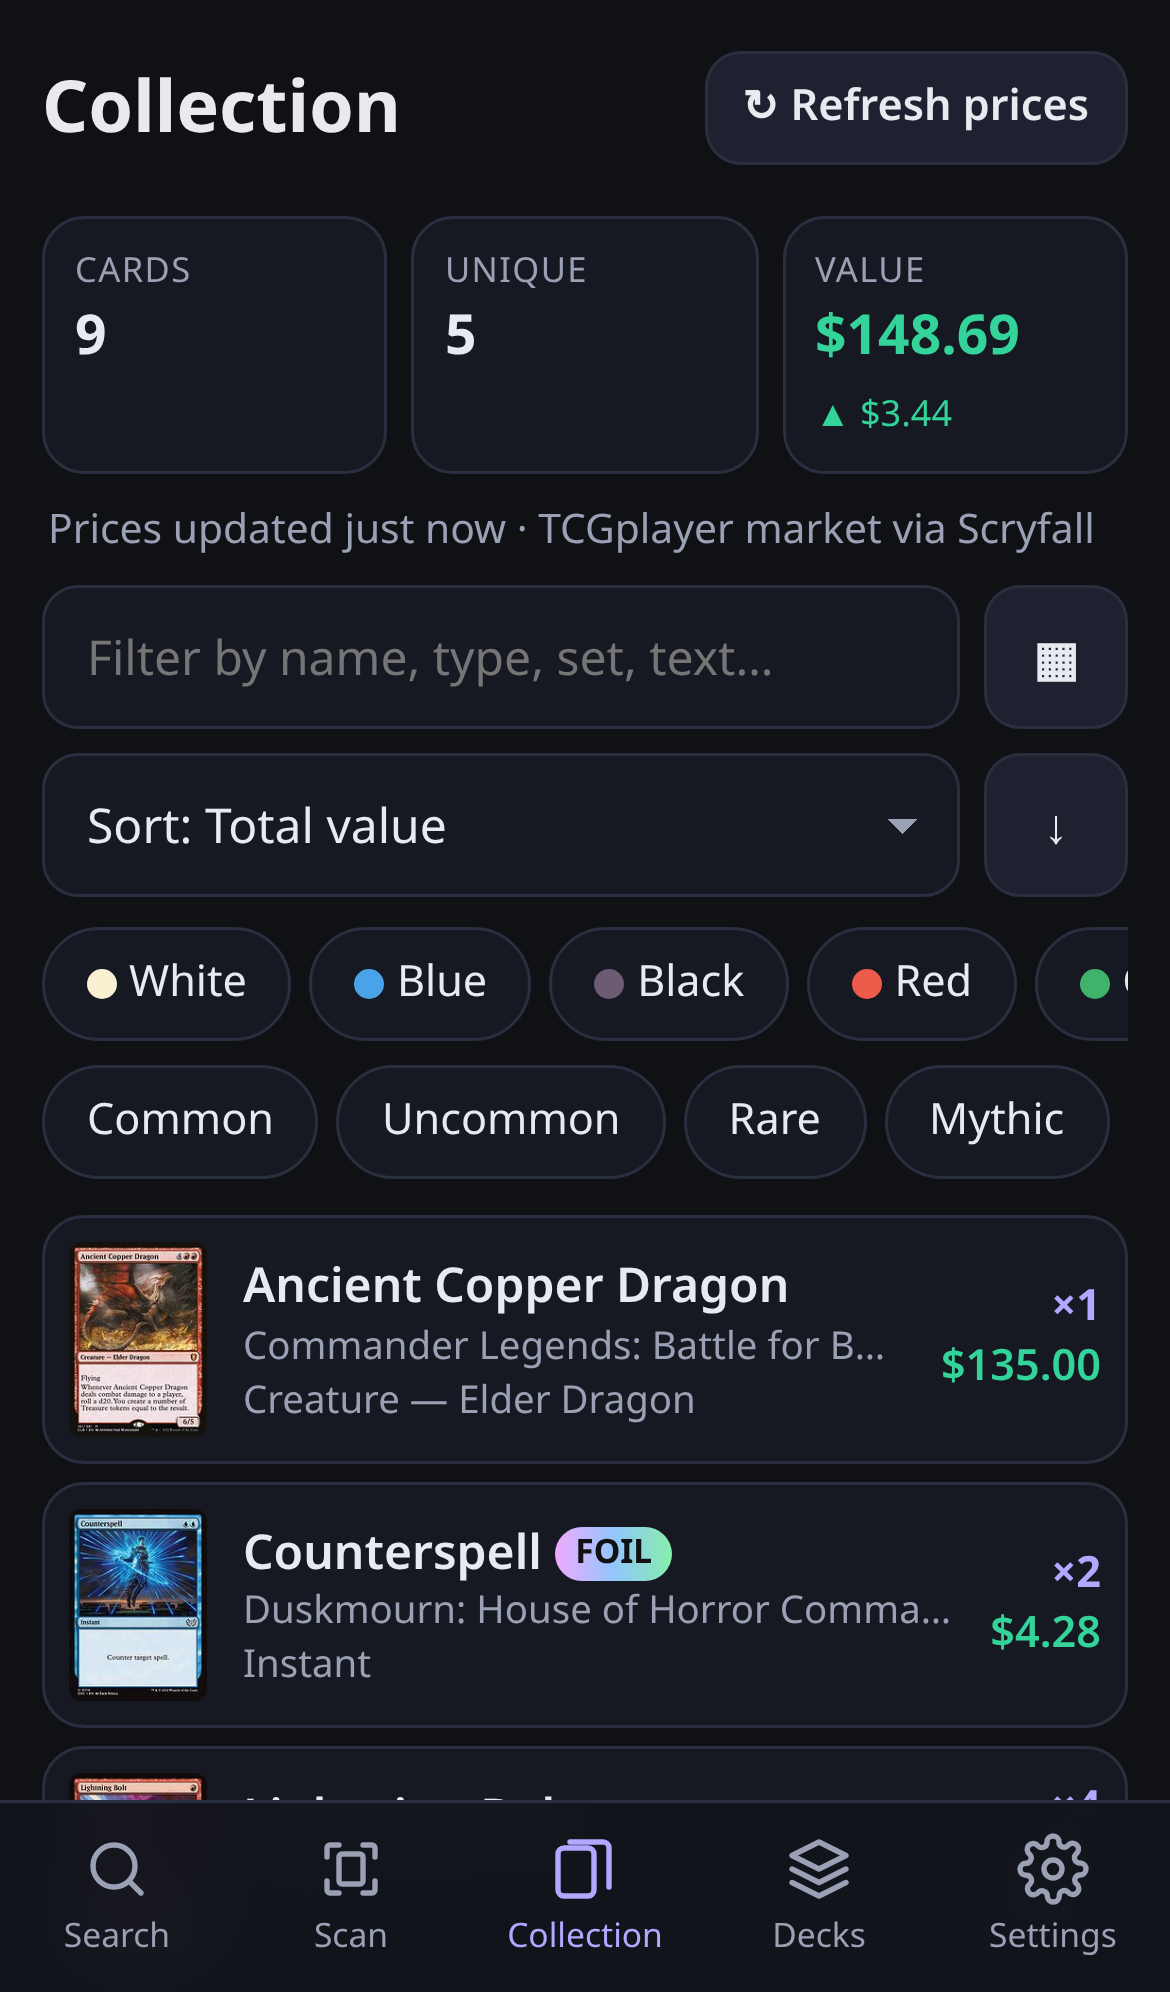
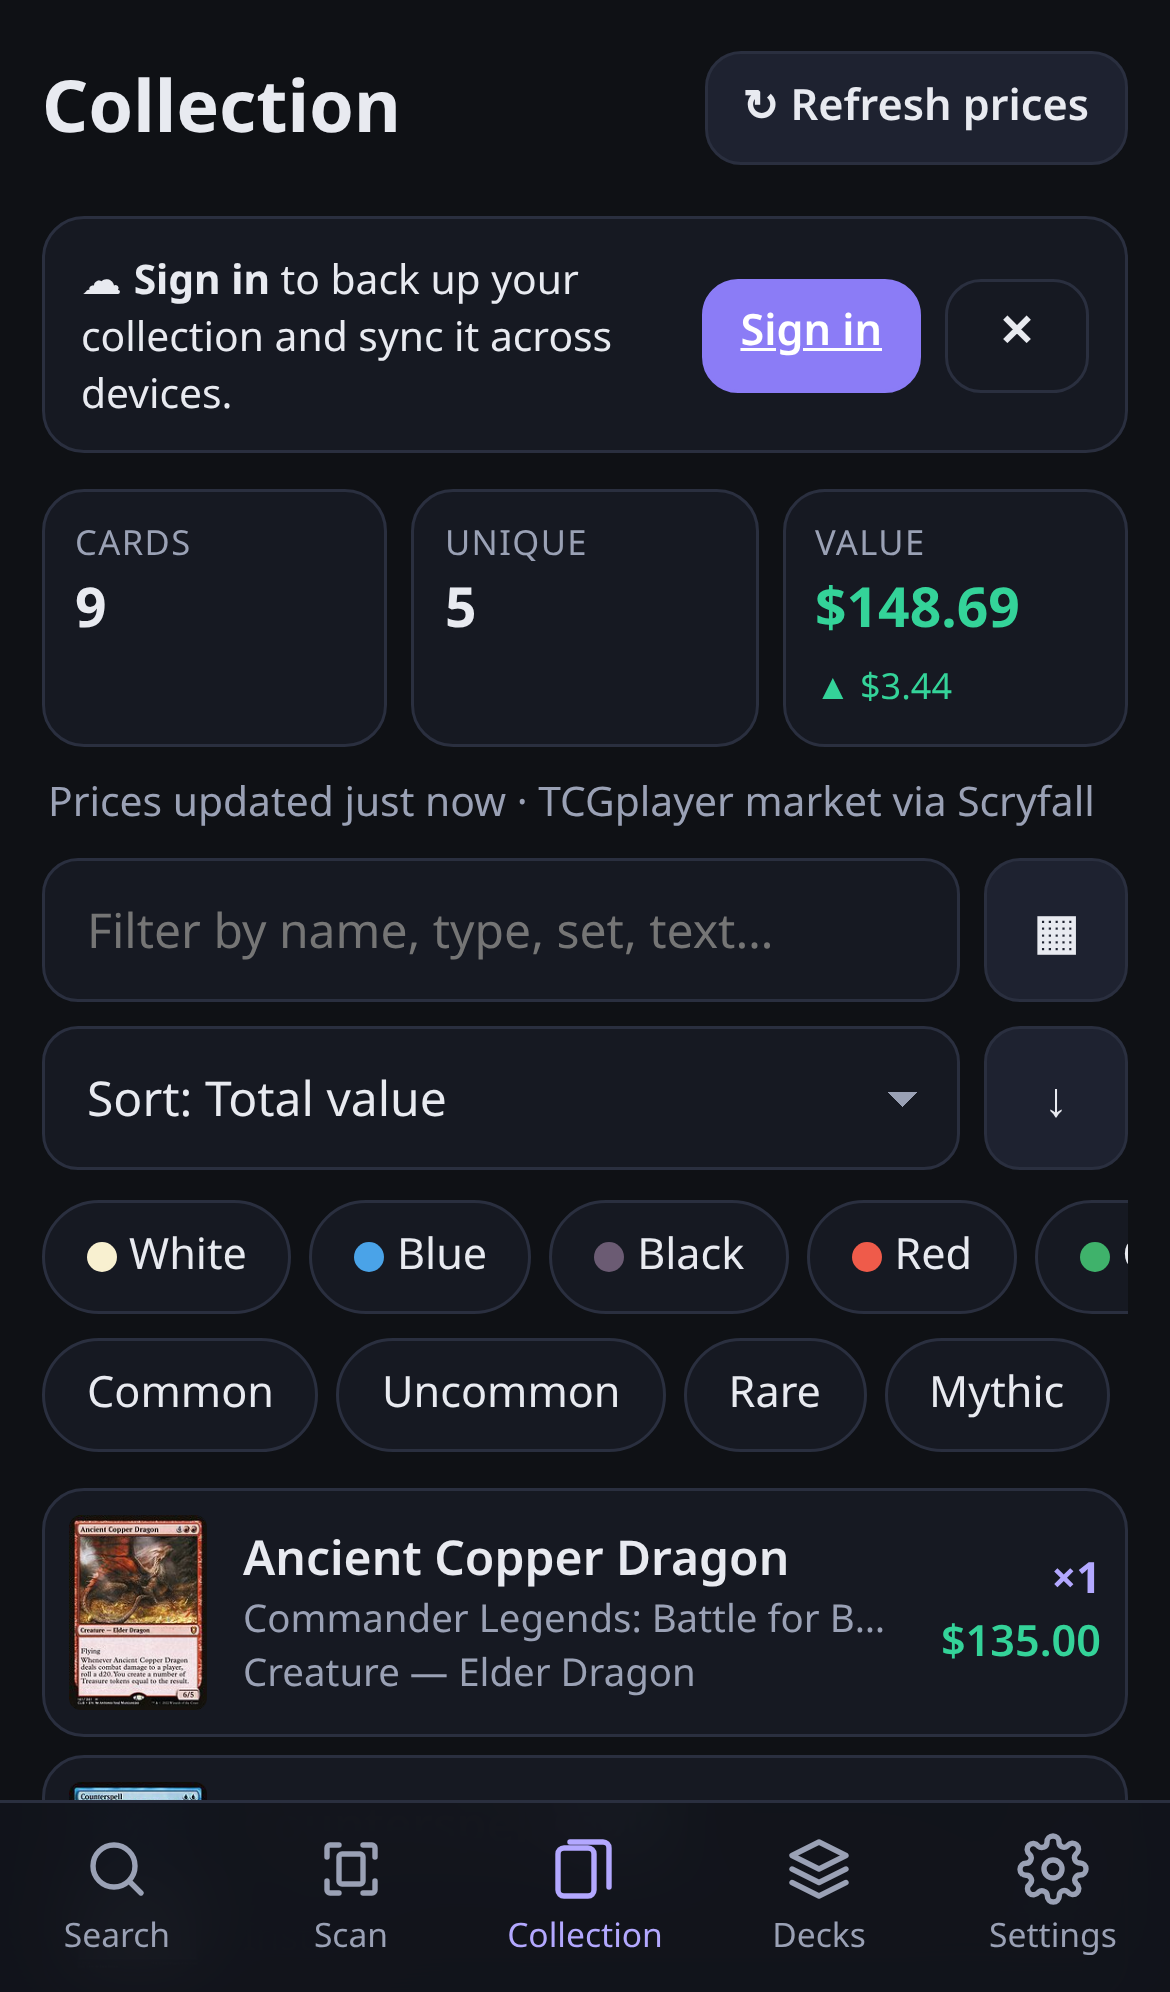
Configure Supabase project; graceful email-confirmation flow; transactional idempotent schema

Changed region(s): [[0.0308, 0.1245, 0.9846, 0.9026], [0.8, 0.7781, 0.9538, 0.8404]]

diff --git a/README.md b/README.md
@@ -45,21 +45,27 @@ Then on the phone: **iPhone Safari** → Share → *Add to Home Screen*. **Andro
 
 ## Cloud sync setup (Supabase)
 
-With `SUPABASE_URL` / `SUPABASE_ANON_KEY` empty in `js/config.js`, the app is purely local and never loads supabase-js.
-To turn on accounts and sync:
+This copy is configured for project `wjuqqxstoxfgnmpardyp` (publishable key in `js/config.js`).
+If `SUPABASE_URL` / `SUPABASE_ANON_KEY` are emptied, the app is purely local and never loads supabase-js.
+Setup steps for a project:
 
 1. **Create a project** at https://supabase.com (the free tier is fine).
 2. **Create the tables**: open SQL Editor → New query, paste [`supabase/schema.sql`](supabase/schema.sql) and run it. It's safe to re-run.
    This creates `collection_items` and `decks` with Row Level Security (each user can only select, insert, update or delete their own rows),
    a last-write-wins trigger, and soft-delete columns.
-3. **Get your keys**: Project Settings → API (or *Connect*). Copy the **Project URL** and the **anon / publishable** key into `js/config.js`.
+3. **Get your keys**: Project Settings → API Keys (or *Connect*). Copy the **Project URL** and the **publishable** key (`sb_publishable_…`, or the legacy `anon` JWT) into `js/config.js`.
    The anon key is meant to be public; never put the `service_role` / secret key in the app.
 4. **Set the auth URLs**: Authentication → URL Configuration
    - **Site URL**: `https://chaseovergaag99-jpg.github.io/spellbook/`
    - **Redirect URLs**: add `https://chaseovergaag99-jpg.github.io/spellbook/` and `https://chaseovergaag99-jpg.github.io/spellbook/**`
      (and `http://localhost:8080/` if you test locally).
 5. **Email sign-in**: Authentication → Sign In / Providers → Email is enabled by default.
-   - *Confirm email* ON (the default) means new users must click the link in their email before signing in. The app tells them this.
+   - *Confirm email* ON (the default) means new users must click the link in their email before signing in. The app handles this:
+     - After sign-up it shows a "check your inbox" screen with a *Resend confirmation email* button.
+     - Signing in before confirming shows a friendly message plus the resend option.
+     - The link returns to the page the user signed up from (`emailRedirectTo` = current page URL) and signs them in.
+     - If the link is opened in a different browser or app, the email still gets confirmed, and the app asks them to sign in.
+     - Expired or invalid links show a toast.
    - Supabase's built-in email sender is heavily rate-limited (a few emails per hour). For real use, set up custom SMTP under Authentication → Emails → SMTP settings.
    - Magic links and password reset use the same email templates. You can hide the magic-link button with `ENABLE_MAGIC_LINK = false`.
 6. **Google sign-in (optional)**:
